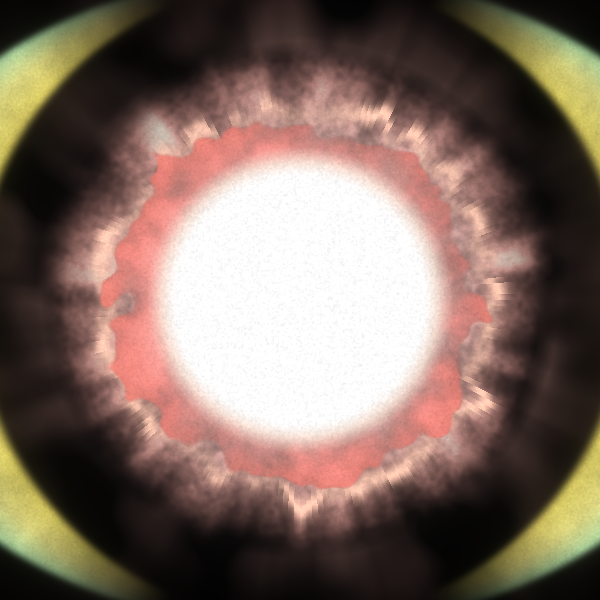
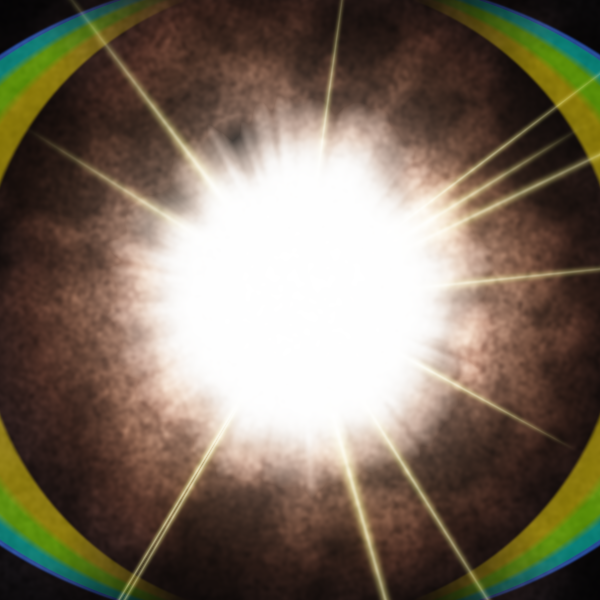
Efekt 10 küre: katman tarifine göre yeniden — ışınsal çekirdek (beyaz→şampanya→şeftali), dumanlı hâle (şeftali→kahve→gri-mor), çapraz limon/krem hüzmeler, iç içe prizmatik hilaller (altın→lime→turkuaz→kobalt), toplamalı karışım
Claude-Session: https://claude.ai/code/session_01E9c1WiJsMc9gXSJZ9D4z6g

diff --git a/arayuz/araclar/efekt10/kure.py b/arayuz/araclar/efekt10/kure.py
@@ -1,115 +1,91 @@
 #!/usr/bin/env python3
-"""Efekt 10 pembe patlama — doruk ani tek kare (kullanicinin tarifi + ic goruntu fotografindan olculen renkler).
-Ortasi titanyum beyaz; kenari 1/3 seftali kirmizisi; 1/3 bosluk; sonra kureyi tutar gibi sag-sol kalin ( ) parantezler (sari + yesil).
-Olculen (foto, merkez 638,440; olcek s ile buyutulur): beyaz cekirdek r<=72 (#FEFEFE), kenar #F8DBC3; seftali-kirmizi #D0968F/#C6887D r~140;
-parantez icten disa: turuncu #F5CA7C -> sari #FEFD89 -> acik sari #FEFDB0 -> acik yesil #F5FDC0 -> yesil #CAFBBB, aci +-55 derece.
-Cikti: kaynak/efekt10/kure/kure.png (siyah fon), kure_saydam.png (alfa = parlaklik), onizlemeler/efekt10_kure.png"""
+"""Efekt 10 pembe patlama — doruk ani tek kare, TARIFE GORE (kullanicinin verdigi katman tarifi), TOPLAMALI (additive/screen) isik.
+1) Ic cekirdek: sinirlari keskin olmayan, isinsal dagilan daire. #FFFFFF -> kisa mesafede #FFF2E6 (acik sampanya) -> #FFD1BA (pastel seftali).
+2) Orta katman: (a) dairesel bulutsu duman: #F4A482 (sicak seftali) -> #8C4A38 (kizil kahve) -> #6E5C6B (dumanli gri-mor), disa dogru solar;
+   (b) merkezden disa firlayan keskin, capraz isik huzmeleri: #FFF77D (limon) cekirdek #FFFFD6 (krem).
+3) Dis katman: kure kesiti gibi, uclara dogru incelip sivrilen ic ice hilal yaylar; keskin prizma: #FFD700 (altin) -> #80FF00 (lime)
+   -> #00E5CC (turkuaz) -> en dis ince #2962FF (kobalt) cizgi.
+Karisim: toplamali — zemini kapatmaz, ustune isik ekler (zeminde onizleme: ekran karisimi).
+Cikti: kaynak/efekt10/kure/kure.png (siyah fon), kure_saydam.png (alfa = parlaklik; Unity'de Blend One One / eklemeli), onizlemeler/efekt10_kure*.png"""
 import os, numpy as np
-from PIL import Image
+from PIL import Image, ImageDraw, ImageFont
+from scipy import ndimage
 B_=os.path.dirname(os.path.abspath(__file__)); K=os.path.join(B_,"..","..","kaynak","efekt10","kure"); ONZ=os.path.join(B_,"..","..","onizlemeler")
 W,H=1920,1080; s=1.6
-yy,xx=np.mgrid[0:H,0:W].astype(np.float32); dx=xx-W/2+0.5; dy=yy-H/2+0.5; R=np.hypot(dx,dy)/s; A=np.arctan2(dy,dx)
+yy,xx=np.mgrid[0:H,0:W].astype(np.float32); dx=xx-W/2+0.5; dy=yy-H/2+0.5; R=np.hypot(dx,dy)/s; A=np.arctan2(dy,dx); th=(A+np.pi)/(2*np.pi)
 def rk(h): return np.array([int(h[i:i+2],16) for i in (1,3,5)],np.float32)/255
-def bant(r0,w): return np.exp(-((R-r0)/w)**2)
-C=np.zeros((H,W,3),np.float32)
-def kat(m,c,a=1.0):   # "uzerine" katman (renk m alfa ile)
-    global C; m=np.clip(m*a,0,1)[...,None]; C=C*(1-m)+rk(c)*m
-# katmanlar RGBA (on-carpimli "uzerine"): saydam cikti icin gercek alfa tutulur
-Ca=np.zeros((H,W),np.float32)
-def uzerine(col,al):
-    global C,Ca
-    al=np.clip(al,0,1); C=C*(1-al[...,None])+col*al[...,None]; Ca=Ca*(1-al)+al
-def interp(R_,dur):
-    rr=np.array([d[0] for d in dur],np.float32)
-    col=np.stack([np.interp(R_,rr,[rk(d[1])[c] for d in dur]) for c in range(3)],-1); al=np.interp(R_,rr,[d[2] for d in dur]); return col,al
-# seftali kirmizisi = gunes cevresindeki sicaklik dalgasi (korona): kutupsal fBm gurultu ile dalgali, alevli kenar + ince taneli doku
-from scipy import ndimage
-def fbm(seed,olcekler,agir):
+L=np.zeros((H,W,3),np.float32)                                         # toplamali isik tamponu
+def ekle(m,col,g=1.0):
+    global L; L+=np.clip(m,0,None)[...,None]*(col if np.ndim(col)==3 else np.asarray(col)[None,None,:])*g
+def renk_r(Rq,dur):  # yaricapa gore renk gecisi
+    rr=[d[0] for d in dur]; return np.stack([np.interp(Rq,rr,[rk(d[1])[c] for d in dur]) for c in range(3)],-1)
+def fbm(seed,olc,agr):
     rg=np.random.default_rng(seed); n=np.zeros((H,W),np.float32)
-    for sc,w_ in zip(olcekler,agir):
-        z=rg.standard_normal((H//sc+3,W//sc+3)).astype(np.float32)
-        z=ndimage.zoom(ndimage.gaussian_filter(z,1.0),sc,order=3)[:H,:W]; n+=w_*z/ (z.std()+1e-6)
-    return n/np.sqrt(sum(w_*w_ for w_ in agir))
-# kutupsal koordinatta gurultu: aciya gore uzayan (radyal) alev dillleri
-th=(A+np.pi)/(2*np.pi); Pn=np.zeros((H,W),np.float32); rg=np.random.default_rng(5)
-for k,(na,nr,w_) in enumerate([(30,3,0.7),(64,5,0.6),(120,8,0.4)]):
-    z=rg.standard_normal((nr+4,na)).astype(np.float32)
-    zr=np.clip(R/220*nr,0,nr+2); za=th*na
-    i0=np.floor(za).astype(int)%na; i1=(i0+1)%na; fa=za-np.floor(za); j0=np.floor(zr).astype(int); fj=zr-j0
-    v=lambda j,i: z[np.clip(j,0,nr+3),i]
-    sm=lambda f: f*f*(3-2*f)
-    Pn+=w_*((v(j0,i0)*(1-sm(fa))+v(j0,i1)*sm(fa))*(1-sm(fj))+(v(j0+1,i0)*(1-sm(fa))+v(j0+1,i1)*sm(fa))*sm(fj))
-Pn/=1.15; Pn=ndimage.gaussian_filter(Pn,2.0)
-tane=ndimage.gaussian_filter(fbm(9,[2,3],[1.0,0.5]),0.8)                                                  # ince taneli doku (fotograftaki gibi)
-Rw=R-9*Pn                                                                    # dalgali yaricap: alev dilleri disari tasar
-col,al=interp(Rw,[(0,"#E6A49C",0.8),(112,"#E0A098",0.8),(124,"#D8948C",0.7),(140,"#CC8880",0.48),(154,"#B87A74",0.24),(166,"#8A5E58",0.0)])   # kenara dogru azalan sicaklik dalgasi
-al=al*np.clip(0.9+0.1*Pn+0.05*tane,0,1)*np.interp(R,[0,146,166],[1,1,0])   # olculer sabit: dis sinir 166'yi gecmez
-col=col*np.clip(1+0.04*tane+0.08*Pn,0.85,1.15)[...,None]
-# sicak parlak damarlar (korona isiltisi)
-damar=np.clip(Pn-0.4,0,1)*np.exp(-((Rw-120)/22)**2)
-col=col+ndimage.gaussian_filter(damar,3)[...,None]*rk("#F2C0A8")*0.35
-uzerine(np.clip(col,0,1),al)
-# 3) ince, yogun sicaklik dalgasi katmani (r~108-122): sik, yuksek kontrastli titresim
-rg3=np.random.default_rng(31); z3=ndimage.gaussian_filter1d(rg3.standard_normal(220).astype(np.float32),1.2,mode="wrap")
-i3=(th*220).astype(int)%220; tit=z3[i3]/ (z3.std()+1e-6)
-Ry=R-4*tit-3*Pn
-yog_al=np.exp(-((Ry-120)/6.0)**2)*np.clip(0.75+0.25*tit+0.08*tane,0,1)*0.9
-uzerine(np.broadcast_to(rk("#F0B49A"),C.shape)*np.clip(1+0.12*tit,0.85,1.2)[...,None],yog_al)
-# 2) atesbulutu: titanyumun hemen disinda bir tik daha kirmizi, dalgali bulut (r~84-108)
-bul=ndimage.gaussian_filter(fbm(41,[6,12,24],[0.6,1.0,0.8]),1.5)
-Rb=R-6*bul-4*Pn
-ab_col,ab_al=interp(Rb,[(0,"#D4625A",0.0),(78,"#D4625A",0.88),(96,"#C85850",0.88),(110,"#BC5249",0.86),(113,"#A84A44",0.0)])   # bir tik buyuk, dis kenari net
-ab_al=ab_al*np.clip(0.8+0.2*bul+0.05*tane,0,1)
-uzerine(np.clip(ab_col*np.clip(1+0.15*bul,0.8,1.25)[...,None],0,1),ab_al)
-# titanyum beyaz: buyuk, opak; kenari seftaliye yumusak gecer
-col,al=interp(R,[(0,"#FFFFFF",1.0),(76,"#FEFEFE",1.0),(86,"#F8DBC3",0.8),(96,"#EBB8A8",0.0)])
-uzerine(col,al)
-# supernova yansimasi: seftaliden disari, parantezlere kadar cok soluk sicak isik; filamanli (radyal ince lifler + dalgali bulutsu), uzaklastikca azalir
-rg2=np.random.default_rng(13); fil=np.zeros((H,W),np.float32)
-for na,w_ in [(90,1.0),(180,0.6),(360,0.35)]:
-    z=ndimage.gaussian_filter1d(rg2.standard_normal(na+1).astype(np.float32),0.8,mode="wrap"); z[-1]=z[0]
-    za=th*na; i0=np.floor(za).astype(int)%na; f=za-np.floor(za); fil+=w_*(z[i0]*(1-f)+z[(i0+1)%na]*f)
-fil=np.clip(0.5+0.35*fil,0,1)                                                 # radyal lifler (acıya gore)
-bulut=np.clip(0.6+0.4*ndimage.gaussian_filter(fbm(17,[16,32],[1.0,0.7]),4),0,1) # dalgali bulutsu
-uz=np.clip((R-150)/12,0,1)*np.exp(-np.clip(R-158,0,None)/58)                    # seftali kenarindan disari azalir
-sn_al=0.28*uz*(0.45+0.55*fil)*bulut*np.clip(1-((R-150)/210)**2,0,1)
-sn_col=np.stack([np.interp(R,[150,200,260,330],[rk(c)[k] for c in ("#E8A89C","#D49084","#B87A74","#9A6A66")]) for k in range(3)],-1)
-uzerine(sn_col,sn_al)
-# parantezler: dis kenar sabit yay, ic kenar ortada iceri siskin (sari kisim parantezin icinde -> orta kalin), uclar incelip solar
-yan=np.abs(np.cos(A)); aci=np.degrees(np.arccos(np.clip(yan,0,1)))
-# geometri: once tam halka — ic kenar yuvarlak (r=200), dis kenar yanlardan siskin ustten basik elips (yatay 282, dikey 206);
-# boylece halka yanlarda kalin, ustte-altta ince olur; sonra ince ust/alt kisim silinir -> kalin, sivri uclu sag-sol parantezler
-ic_r=200.0; ea,eb=282.0,206.0
-dis_r=1/np.sqrt((np.cos(A)/ea)**2+(np.sin(A)/eb)**2)
-kal=np.maximum(dis_r-ic_r,0)
-uc=np.clip((kal-14)/26,0,1)                                                    # ince ust/alt kisim silinir (yumusak)
-u=(R-ic_r)/np.maximum(kal,1e-3)
-renkler=[(0.0,"#FCE65E"),(0.5,"#FEF486"),(0.72,"#E2F8A0"),(1.0,"#A8E8B0")]                          # yalniz sari + yesil   # ic genis sari -> acik yesil -> yesil (dis)
-uu=np.clip(u,0,1); col=np.stack([np.interp(uu,[q[0] for q in renkler],[rk(q[1])[c] for q in renkler]) for c in range(3)],-1)
-op=np.clip(np.minimum(u/0.1,(1-u)/0.08),0,1)*uc*0.92*(kal>0.5)
-cizgi=np.clip(0.86+0.14*fil+0.04*ndimage.gaussian_filter(tane,2.5),0.6,1.1)        # ışık lifleri / pürüz
-op=ndimage.gaussian_filter(op*cizgi,3.0)*0.95                                         # yumusak, parlayan kenar
-col=np.stack([ndimage.gaussian_filter(col[...,c],3.0) for c in range(3)],-1)
-uzerine(col,op)
+    for sc,w_ in zip(olc,agr):
+        z=rg.standard_normal((H//sc+3,W//sc+3)).astype(np.float32); z=ndimage.zoom(ndimage.gaussian_filter(z,1.0),sc,order=3)[:H,:W]; n+=w_*z/(z.std()+1e-6)
+    return n/np.sqrt(sum(w_*w_ for w_ in agr))
+def acisal(seed,na,sig=1.0):
+    z=ndimage.gaussian_filter1d(np.random.default_rng(seed).standard_normal(na).astype(np.float32),sig,mode="wrap"); z/=z.std()+1e-6
+    za=th*na; i0=np.floor(za).astype(int)%na; f=za-np.floor(za); f=f*f*(3-2*f); return z[i0]*(1-f)+z[(i0+1)%na]*f
+tane=ndimage.gaussian_filter(fbm(9,[2,3],[1.0,0.5]),0.8)
+# ---------- 2a) dumanli hale (bulutsu, dairesel; disa dogru doygunlugu azalir) ----------
+duman=np.clip(0.72+0.28*ndimage.gaussian_filter(fbm(17,[10,24,48],[0.6,1.0,0.8]),2),0.35,1.2)
+dal=0.6*acisal(5,40,1.5)+0.4*acisal(6,90,1.0)
+Rd=R-10*dal
+dcol=renk_r(Rd,[(0,"#F4A482"),(105,"#F4A482"),(150,"#C07050"),(180,"#8C4A38"),(225,"#7A5050"),(260,"#6E5C6B"),(330,"#6E5C6B")])
+dyog=np.interp(Rd,[0,95,110,150,200,260,320],[0,0.0,0.95,0.6,0.28,0.12,0.0])
+ekle(dyog*duman*(0.9+0.1*tane),dcol,1.0)
+# ---------- 1) ic cekirdek: isinsal dagilan, keskin olmayan ----------
+isinsal=0.5*acisal(21,64,0.8)+0.5*acisal(22,150,0.6)                    # kenarda isinsal saçilma
+Rc=R-7*np.clip(isinsal,-1.5,2.5)*np.clip((R-55)/30,0,1)
+ccol=renk_r(Rc,[(0,"#FFFFFF"),(68,"#FFFFFF"),(80,"#FFF2E6"),(94,"#FFD1BA"),(130,"#FFD1BA")])
+cyog=np.interp(Rc,[0,70,84,98,118],[2.6,2.4,1.5,0.7,0.0])
+ekle(cyog,ccol,1.0)
+# ---------- 2b) keskin capraz isik huzmeleri ----------
+rg=np.random.default_rng(44)
+huzme=[]; 
+for k in range(12):
+    taban=np.radians([45,135,225,315][k%4])+rg.uniform(-0.38,0.38) if k<8 else rg.uniform(0,2*np.pi)   # agirlikla capraz
+    huzme.append((taban,rg.uniform(150,330),rg.uniform(2.0,4.5),rg.uniform(0.6,1.0)))
+hm=np.zeros((H,W),np.float32); hc=np.zeros((H,W),np.float32)
+for a,uz,en,g in huzme:
+    d=np.abs(np.angle(np.exp(1j*(A-a))))*R                                  # isina dik uzaklik (kure olceginde)
+    boy=np.clip(1-R/uz,0,1)*np.clip((R-60)/25,0,1)                           # cekirdekten cikar, uca dogru solar
+    w=en*(0.4+0.6*np.clip(1-R/uz,0,1))
+    hm=np.maximum(hm,g*boy*np.exp(-(d/w)**2)); hc=np.maximum(hc,g*boy**1.5*np.exp(-(d/(w*0.35))**2))
+ekle(hm,rk("#FFF77D"),1.3); ekle(hc,rk("#FFFFD6"),1.2)
+# ---------- 3) dis katman: ic ice prizmatik hilal yaylar ----------
+def hilal(ic_r,ea,eb,g,kob):
+    dis_r=1/np.sqrt((np.cos(A)/ea)**2+(np.sin(A)/eb)**2); kal=np.maximum(dis_r-ic_r,0)
+    uc=np.clip((kal-12)/24,0,1)
+    u=(R-ic_r)/np.maximum(kal,1e-3); ic=(u>=0)&(u<=1)
+    dur=[(0.0,"#FFD700"),(0.30,"#FFD700"),(0.42,"#80FF00"),(0.62,"#80FF00"),(0.74,"#00E5CC"),(0.90,"#00E5CC"),(0.93,"#2962FF"),(1.0,"#2962FF")]
+    col=np.stack([np.interp(np.clip(u,0,1),[q[0] for q in dur],[rk(q[1])[c] for q in dur]) for c in range(3)],-1)
+    kenar=np.clip(np.minimum(u/0.04,(1-u)/0.03),0,1)                         # keskin sinir
+    yog=kenar*uc*ic*(0.85+0.15*np.clip(1-np.abs(u-0.5)*2,0,1))
+    yog=yog*(1+kob*np.clip((u-0.9)/0.1,0,1))                                  # en dis kobalt cizgi belirgin
+    return yog,col
+for ic_r,ea,eb,g in [(200,282,206,0.62),(286,318,290,0.30)]:                  # ana hilal + disindaki ince ikinci yay
+    yog,col=hilal(ic_r,ea,eb,g,0.6); ekle(ndimage.gaussian_filter(yog,0.8),col,g)
+# ---------- parlama (bloom) ve tane ----------
+parlak=np.clip(L-0.7,0,None)
+bloom=sum(w_*np.stack([ndimage.gaussian_filter(parlak[...,c],sg) for c in range(3)],-1) for sg,w_ in [(6,0.5),(20,0.4),(55,0.3),(120,0.2)])
+L=L+bloom
+L=L*(1+0.04*tane[...,None]*np.clip(L.max(2),0,1)[...,None])
+img=np.clip(1-np.exp(-1.25*L),0,1)                                         # siyah fonda (toplamali isik, yumusak doyum)
 os.makedirs(K,exist_ok=True)
-# parlama tasmasi: parlak bolgeler cevreye yayilir (ekran karisimi), beyaz asiri pozlanmis gibi tasar
-lum=C.max(2); parlak=C*np.clip((np.minimum(C[...,2],lum)-0.75)/0.25,0,1)[...,None]          # yalniz beyaza yakin (cekirdek) tasar; renkli parantez beyazlasmaz
-bloom=sum(w_*np.stack([ndimage.gaussian_filter(parlak[...,c],sg) for c in range(3)],-1) for sg,w_ in [(6,0.55),(18,0.45),(48,0.35),(110,0.25)])
-yay=sum(w_*np.stack([ndimage.gaussian_filter(C[...,c],sg) for c in range(3)],-1) for sg,w_ in [(10,0.14),(35,0.12)])   # genel hafif sis
-C=1-(1-C)*(1-np.clip(bloom,0,1))*(1-np.clip(yay,0,1))
-Ca=np.maximum(Ca,np.clip(C.max(2),0,1))
-# ince tane (fotograftaki gibi), isikli yerlerde
-gr=np.random.default_rng(23).standard_normal((H,W)).astype(np.float32); gr=ndimage.gaussian_filter(gr,0.7)
-C=np.clip(C*(1+0.045*gr[...,None]*np.clip(C.max(2)*1.5,0,1)[...,None]),0,1)
-img=(np.clip(C,0,1)*255).round().astype(np.uint8)                      # siyah fon uzerinde (C on-carpimli)
-Image.fromarray(img).save(os.path.join(K,"kure.png"))
-rgb=(np.clip(C/np.maximum(Ca,1e-4)[...,None],0,1)*255).round().astype(np.uint8); al=(np.clip(Ca,0,1)*255).round().astype(np.uint8)
-Image.fromarray(np.dstack([rgb,al])).save(os.path.join(K,"kure_saydam.png"))
-# zemin uzerinde onizleme (arkasi secilir mi): fotograftaki toprak rengi
-zem=np.array([0x86,0x6C,0x5E],np.float32)/255; zg=(np.clip(C+zem*(1-Ca[...,None]),0,1)*255).astype(np.uint8)
-# onizleme: fotograf (kirpilmis) | yeni
+Image.fromarray((img*255).round().astype(np.uint8)).save(os.path.join(K,"kure.png"))
+al=img.max(2); rgb=np.where(al[...,None]>1e-4,img/np.maximum(al,1e-4)[...,None],0)
+Image.fromarray(np.dstack([(rgb*255).round(),(al*255).round()]).astype(np.uint8)).save(os.path.join(K,"kure_saydam.png"))
+zem=np.array([0x86,0x6C,0x5E],np.float32)/255; zg=1-(1-zem)*(1-img)            # zeminde ekran karisimi
 ref=Image.open(os.path.join(os.path.expanduser("~"),".claude","uploads","7667fcb8-b488-59d0-b1d8-f55ffb36b68a","0d1e98a9-image.jpg")).convert("RGB").crop((638-420,440-330,638+420,440+330)).resize((960,754))
-new=Image.fromarray(img).crop((960-672,540-528,960+672,540+528)).resize((960,754))
-nz=Image.fromarray(zg).crop((960-672,540-528,960+672,540+528)).resize((960,754))
-o=Image.new("RGB",(2880,754)); o.paste(ref,(0,0)); o.paste(nz,(960,0)); o.paste(new,(1920,0)); o.save(os.path.join(ONZ,"efekt10_kure.png"))
+kes=lambda a: Image.fromarray((a*255).round().astype(np.uint8)).crop((960-672,540-528,960+672,540+528)).resize((960,754))
+o=Image.new("RGB",(2880,754)); o.paste(ref,(0,0)); o.paste(kes(zg),(960,0)); o.paste(kes(img),(1920,0)); o.save(os.path.join(ONZ,"efekt10_kure.png"))
+F=ImageFont.truetype(os.path.join(B_,"..","..","kaynak","char_info","fonts","Roboto-Bold.ttf"),30)
+out=Image.new("RGB",(2920,814),(20,20,24)); d=ImageDraw.Draw(out)
+for i,(im,t) in enumerate([(ref,"REFERANS (fotoğraf)"),(kes(zg),"YENİ — toprak zeminde"),(kes(img),"YENİ — siyah fonda")]):
+    out.paste(im,(i*980,60)); d.text((i*980+12,14),t,font=F,fill=(255,220,120))
+out.save(os.path.join(ONZ,"efekt10_kure_referansli.png"))
+Image.fromarray((img*255).round().astype(np.uint8)).crop((960-300,540-300,960+300,540+300)).save(os.path.join(ONZ,"efekt10_kure_merkez.png"))
+Image.fromarray((img*255).round().astype(np.uint8)).crop((960-560,540-460,960+560,540+460)).resize((840,690)).save(os.path.join(ONZ,"efekt10_kure_yakin.png"))
 print("tamam")
